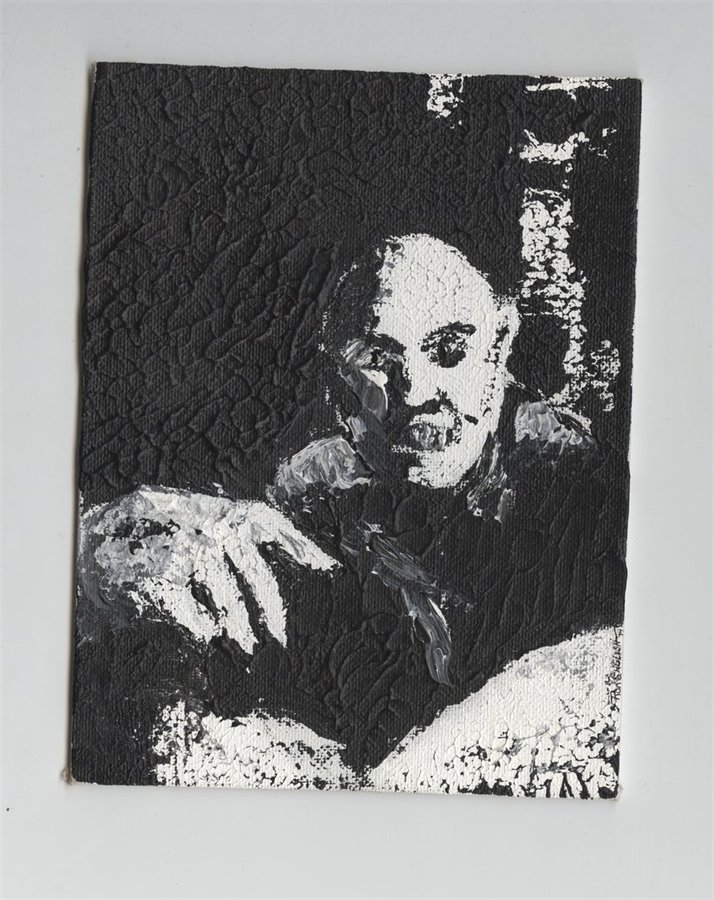
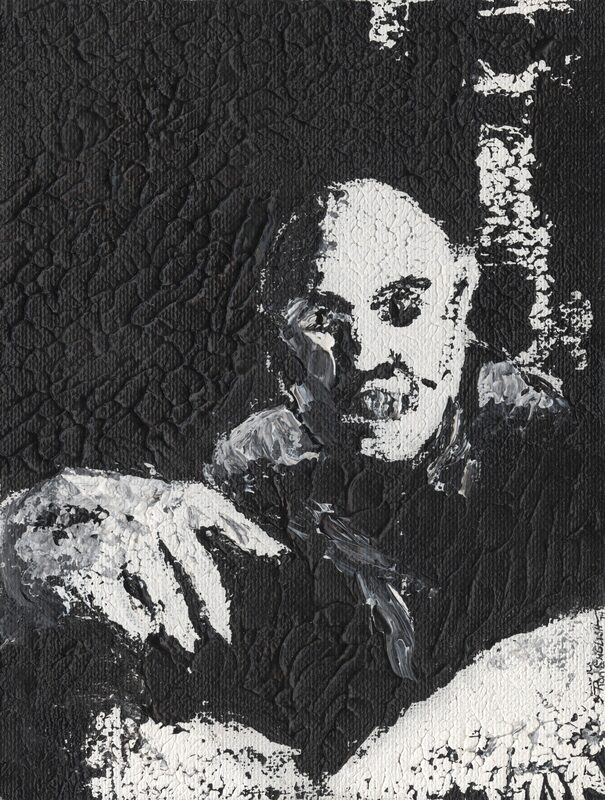
updates

diff --git a/detail/paintings/1970s/early-works/RE-015447.html b/detail/paintings/1970s/early-works/RE-015447.html
@@ -53,6 +53,32 @@
   }
 </style>
 <!-- END VERIFIED WORK SEQUENCE NAV CSS -->
+<style id="PAINTINGS-NOTES-CARD-V1">
+  .notes-card {
+    max-width: 720px;
+    margin: 1.5rem auto;
+    padding: 1.15rem 1.25rem;
+    border: 1px solid rgba(0,0,0,.16);
+    border-radius: 16px;
+    background: rgba(255,255,255,.04);
+    box-shadow: 0 8px 24px rgba(0,0,0,.08);
+    text-align: center;
+  }
+
+  .notes-card h2 {
+    margin-top: 0;
+  }
+
+  .notes-card p:last-child {
+    margin-bottom: 0;
+  }
+
+  @media (prefers-color-scheme: dark) {
+    .notes-card {
+      border-color: rgba(255,255,255,.18);
+    }
+  }
+</style>
 </head>
 
 <body>
@@ -96,7 +122,7 @@
       <li><strong>Medium:</strong> Tempera on canvas board</li>
       <li><strong>Dimensions:</strong> 8 &#215; 10 inches</li>
       <li><strong>Work ID:</strong> RE-015447</li>
-      <li><strong>Signature:</strong> Signed “Ron E,” lower right; inscribed on reverse, “TO GRANDMOTHER FROM RON GET WELL SOON!”</li>
+      <li><strong>Signature:</strong> Signed &ldquo;Ron E,&rdquo; lower right</li>
       <li><strong>Provenance:</strong> Artist's personal collection.</li>
     </ul>
 
@@ -114,6 +140,10 @@
 
   <!-- END VERIFIED WORK SEQUENCE NAV -->
 
+<section class="section-block notes-card" data-role="notes">
+  <h2>Notes</h2>
+  <p>Inscribed on reverse, &ldquo;TO GRANDMOTHER FROM RON GET WELL SOON!&rdquo;</p>
+</section>
 <!-- WORK-SEQUENCE-NAV-START -->
 <nav class="work-sequence-nav" aria-label="Artwork sequence navigation">
   <div class="sequence-nav-inner">

diff --git a/paintings/1970s.html b/paintings/1970s.html
@@ -527,7 +527,7 @@
                                                                                           <p class="work-title">KISS</p>
                                                                                         </a>
         <a class="gallery-item" href="../detail/paintings/1970s/early-works/RE-015351.html">
-          <img src="../images/Paintings/1970s/Scan_20260706%20(50).jpg" alt="Nosferatu (1974)" loading="lazy" />
+          <img src="../images/Paintings/1970s/thumbs/RE-015351.jpg" alt="Nosferatu (1974)" loading="lazy" />
           <p class="work-title">Nosferatu</p>
         </a>
 <a class="gallery-item" href="../detail/paintings/1970s/1976/Pipe.html">

diff --git a/detail/paintings/1970s/early-works/RE-015351.html b/detail/paintings/1970s/early-works/RE-015351.html
@@ -72,9 +72,9 @@
 
   <main class="work-layout">
 
-    <a class="work-hero-link" href="../../../../images/Paintings/1970s/Scan_20260706%20(50).jpg" target="_blank" rel="noopener noreferrer">
+    <a class="work-hero-link" href="../../../../images/Paintings/1970s/RE-015351-detail.jpg" target="_blank" rel="noopener">
       <img
-        src="../../../../images/Paintings/1970s/Scan_20260706%20(50).jpg"
+        src="../../../../images/Paintings/1970s/RE-015351-detail.jpg"
         alt="Nosferatu (1974)"
         class="work-hero"
         loading="lazy"

diff --git a/detail/paintings/1970s/early-works/RE-015450.html b/detail/paintings/1970s/early-works/RE-015450.html
@@ -96,7 +96,7 @@
       <li><strong>Medium:</strong> Tempera and ink on canvas sheet</li>
       <li><strong>Dimensions:</strong> 9 &#215; 12 inches</li>
       <li><strong>Work ID:</strong> RE-015450</li>
-      <li><strong>Signature:</strong> Signed and dated “Ron E ’73.”</li>
+      <li><strong>Signature:</strong> Signed and dated &ldquo;Ron E &rsquo;73,&rdquo; lower right</li>
       <li><strong>Provenance:</strong> Artist's personal collection.</li>
     </ul>
 
